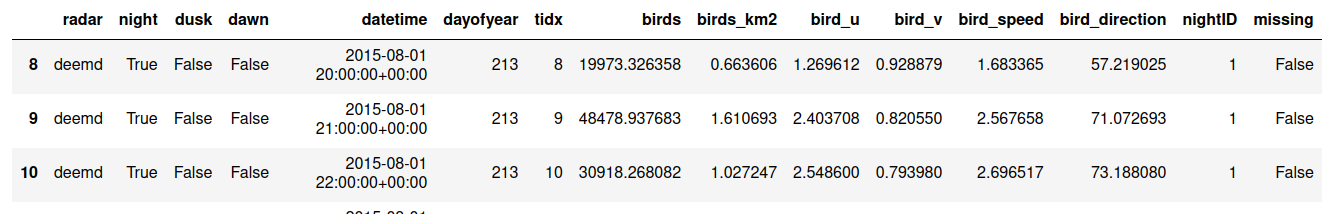
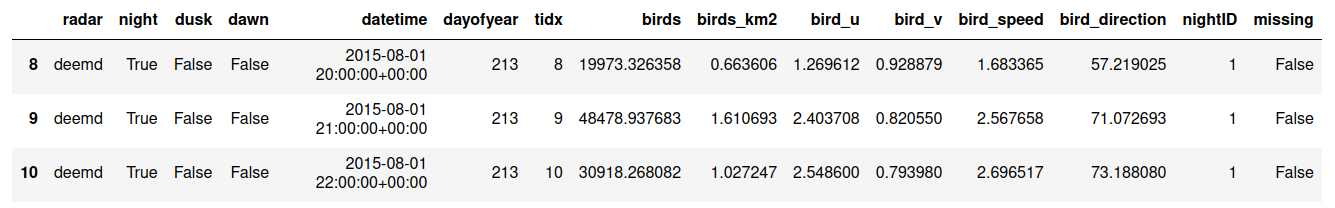
adjust image sizes

diff --git a/README.md b/README.md
@@ -56,10 +56,10 @@ in the `scripts/conf` directory.
 The preprocessed data must include:
 - `delaunay.gpickle`: graph structure underlying the Voronoi tessellation of radar locations (as a [networkx.DiGraph](https://networkx.org/documentation/stable/reference/classes/digraph.html) where nodes represent radars and edges between radars exist if their Voronoi cells are adjacent)
 - `static_features.csv`: dataframe containing the following static features of radars and their corresponding Voronoi cell:
-![table of static features](https://github.com/FionaLippert/FluxRGNN/blob/main/images/static_features.png?raw=true)
+<img src="https://github.com/FionaLippert/FluxRGNN/blob/main/images/static_features.png?raw=true" alt="table" width="200"/>
 Note that the order of the rows (representing radars) must correspond to the order of nodes (representing radars) in the `networkx.DiGraph`.
 - `dynamic_features.csv`: dataframe containing the following dynamic features of Voronoi cells, i.e. variables that change over time:
-![table of static features](https://github.com/FionaLippert/FluxRGNN/blob/main/images/dynamic_features.png?raw=true)
+<img src="https://github.com/FionaLippert/FluxRGNN/blob/main/images/dynamic_features.png?raw=true" alt="table" width="300"/>
 In addition to these variables, additional columns containing values of environmental variables can be added. The column names should correspond to the variable names specified in the `env_vars` list in the datasource config file.
 
 
